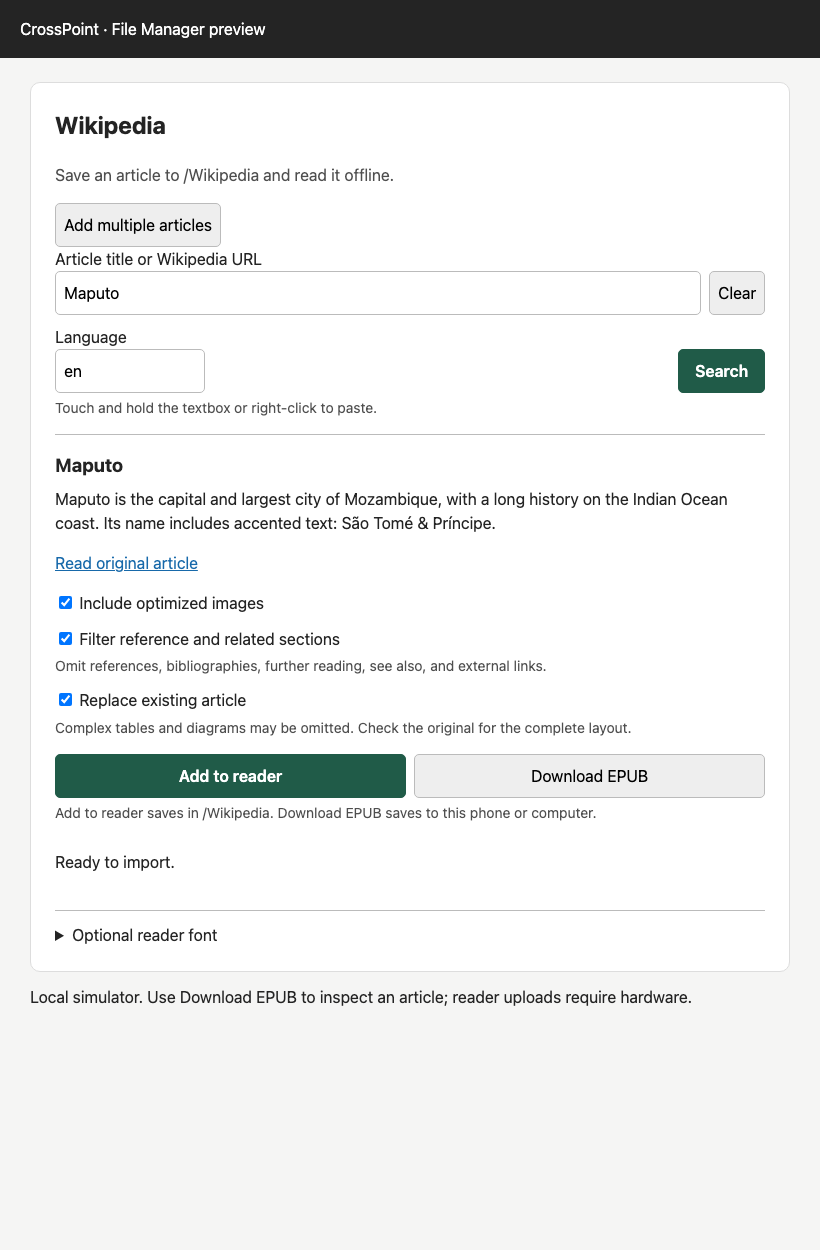
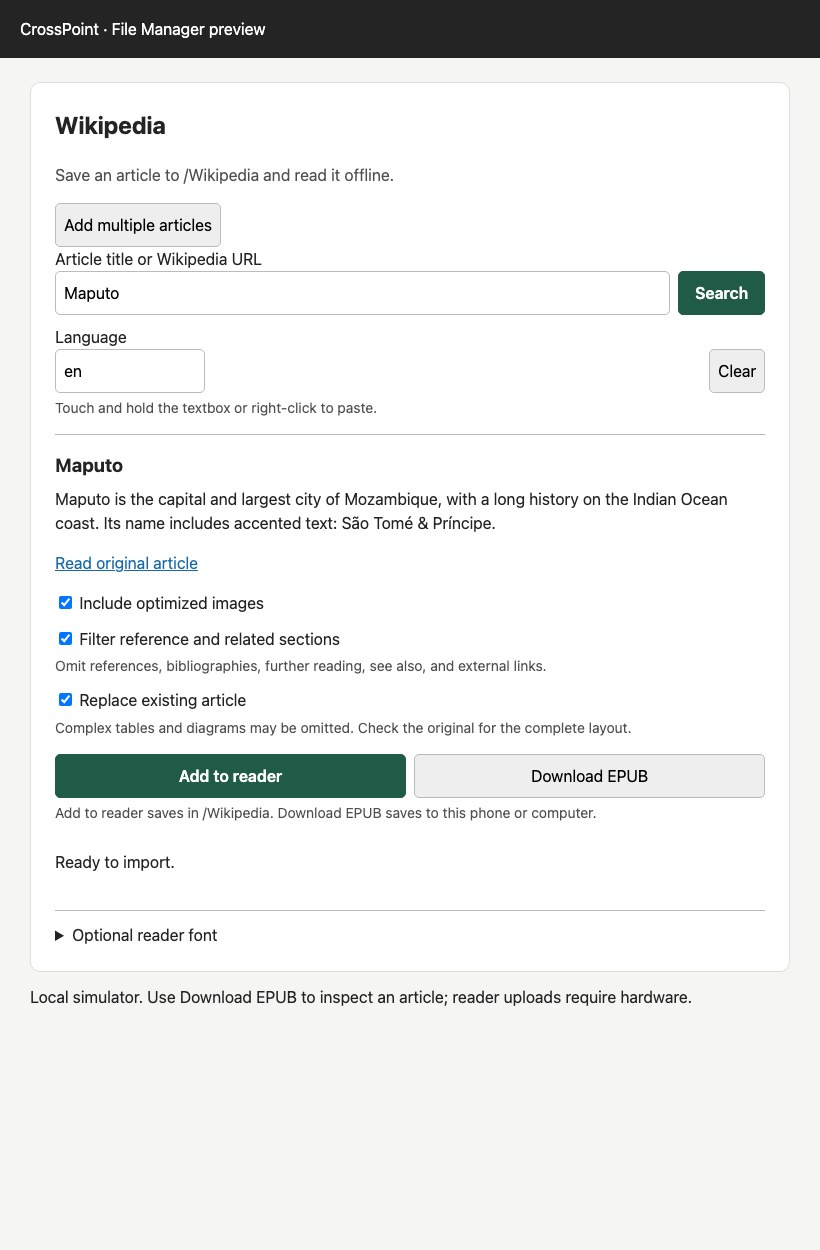
Swap Search and Clear buttons and release v0.1.7

Changed region(s): [[0.8232, 0.2184, 0.9451, 0.312]]

diff --git a/wikipedia.crosspoint-plugin/plugin.js b/wikipedia.crosspoint-plugin/plugin.js
@@ -1,4 +1,4 @@
-/*! CrossPoint Wikipedia 0.1.6 | MIT | github.com/saadasif/crosspoint-wikipedia */
+/*! CrossPoint Wikipedia 0.1.7 | MIT | github.com/saadasif/crosspoint-wikipedia */
 "use strict";(()=>{function Q(){return new DOMException("Cancelled","AbortError")}function L(t){if(t.aborted)throw Q()}function J(t){let i=document.createElement("template");return i.innerHTML=t,i.content.textContent?.trim()||""}function U(t){let i=t.trim().toLowerCase();if(!/^[a-z][a-z0-9-]{0,30}$/.test(i))throw new Error("Enter a Wikipedia language code, such as en, fr, or simple.");return i}function j(t){if(!/^(?:https?:\/\/|[\w-]+\.(?:m\.)?wikipedia\.org\/)/i.test(t))return;let i;try{i=new URL(t.includes("://")?t:`https://${t}`)}catch{throw new Error("Enter a valid Wikipedia article URL.")}let e=/^([a-z][a-z0-9-]*)\.(?:m\.)?wikipedia\.org$/.exec(i.hostname);if(!e||["www","m"].includes(e[1])||i.port||i.username||i.password)throw new Error("Use an article URL from a Wikipedia language edition.");let v=i.pathname.startsWith("/wiki/")?decodeURIComponent(i.pathname.slice(6)).replace(/_/g," "):i.pathname==="/w/index.php"?i.searchParams.get("title"):null;if(!v)throw new Error("This URL does not identify a Wikipedia article.");let a=i.searchParams.get("oldid");if(a&&!/^\d+$/.test(a))throw new Error("Invalid article revision.");return{language:U(e[1]),title:v,...a?{revision:Number(a)}:{}}}async function F(t,i,e){let v=new URLSearchParams({...i,format:"json",formatversion:"2",origin:"*"}),a=await fetch(`https://${U(t)}.wikipedia.org/w/api.php?${v}`,{signal:e,credentials:"omit",headers:{"Api-User-Agent":"CrossPointWikipedia/0.1 (https://github.com/saadasif/crosspoint-wikipedia)"}});if(!a.ok)throw new Error(a.status===429?"Wikipedia is busy. Please retry shortly.":`Wikipedia request failed (${a.status}).`);let k=await a.json();if(k.error)throw new Error(k.error.info||"Wikipedia could not find this article.");return k}async function Z(t,i,e){return(await F(i,{action:"query",list:"search",srsearch:t,srnamespace:"0",srlimit:"6",srprop:"snippet"},e)).query.search.map(a=>({title:a.title,snippet:J(a.snippet)}))}async function _(t,i){let{parse:e}=await F(t.language,{action:"parse",prop:"revid",redirects:"1",...t.revision?{oldid:String(t.revision)}:{page:t.title}},i);if(!e.pageid||!e.revid||!e.title)throw new Error("Wikipedia returned an empty article.");return{language:t.language,title:e.title,pageId:e.pageid,revision:e.revid}}async function O(t,i){let[e,v]=await Promise.all([F(t.language,{action:"parse",prop:"text|revid",redirects:"1",disableeditsection:"1",...t.revision?{oldid:String(t.revision)}:{page:t.title}},i),F(t.language,{action:"query",meta:"siteinfo",siprop:"general|rightsinfo"},i)]),a=e.parse;if(!a.pageid||!a.revid||!a.text)throw new Error("Wikipedia returned an empty article.");let k=v.query.rightsinfo;if(!k.text||!/^https:\/\//.test(k.url))throw new Error("Could not determine this article\u2019s license.");return{...t,title:a.title,pageId:a.pageid,revision:a.revid,html:a.text,source:`https://${t.language}.wikipedia.org/wiki/${encodeURIComponent(a.title.replace(/ /g,"_"))}`,license:k,rtl:!!v.query.general.rtl}}var D=t=>`${t} article${t===1?"":"s"}`,K=t=>t instanceof Error?t.message:"Something went wrong. Please retry.",V=t=>`${t.language}:${t.pageId}`,A=t=>"ref"in t;function X(t,i){t.innerHTML=`<h3>Add multiple articles</h3>
 <p>Paste one Wikipedia URL or exact article title per line. Up to 25 articles. Titles use the language below; URLs use their own language.</p>
 <label>Articles<textarea name="articles" maxlength="25000" placeholder="Maputo&#10;https://en.wikipedia.org/wiki/Mars"></textarea></label>
@@ -36,9 +36,9 @@
 <div class="wp-single">
 <form>
 <label class="wp-query">Article title or Wikipedia URL<span class="wp-query-row"><input type="text" name="query" maxlength="1000" placeholder="Search or paste a Wikipedia link" required autocomplete="off" autocapitalize="none"/>
-<button type="button" class="wp-clear" aria-label="Clear article query">Clear</button></span></label>
+<button type="submit" class="wp-primary">Search</button></span></label>
 <label class="wp-language">Language<input type="text" name="language" value="en" maxlength="31" aria-label="Wikipedia language" autocapitalize="none" spellcheck="false"/></label>
-<button type="submit" class="wp-primary">Search</button>
+<button type="button" class="wp-clear" aria-label="Clear article query">Clear</button>
 </form>
 <p class="wp-muted wp-help">Touch and hold the textbox or right-click to paste.</p>
 <div class="wp-results" aria-label="Search results"></div>

diff --git a/src/plugin.ts b/src/plugin.ts
@@ -33,9 +33,9 @@ function mount(container: HTMLElement, api: PluginApi): void {
 <div class="wp-single">
 <form>
 <label class="wp-query">Article title or Wikipedia URL<span class="wp-query-row"><input type="text" name="query" maxlength="1000" placeholder="Search or paste a Wikipedia link" required autocomplete="off" autocapitalize="none"/>
-<button type="button" class="wp-clear" aria-label="Clear article query">Clear</button></span></label>
+<button type="submit" class="wp-primary">Search</button></span></label>
 <label class="wp-language">Language<input type="text" name="language" value="en" maxlength="31" aria-label="Wikipedia language" autocapitalize="none" spellcheck="false"/></label>
-<button type="submit" class="wp-primary">Search</button>
+<button type="button" class="wp-clear" aria-label="Clear article query">Clear</button>
 </form>
 <p class="wp-muted wp-help">Touch and hold the textbox or right-click to paste.</p>
 <div class="wp-results" aria-label="Search results"></div>
